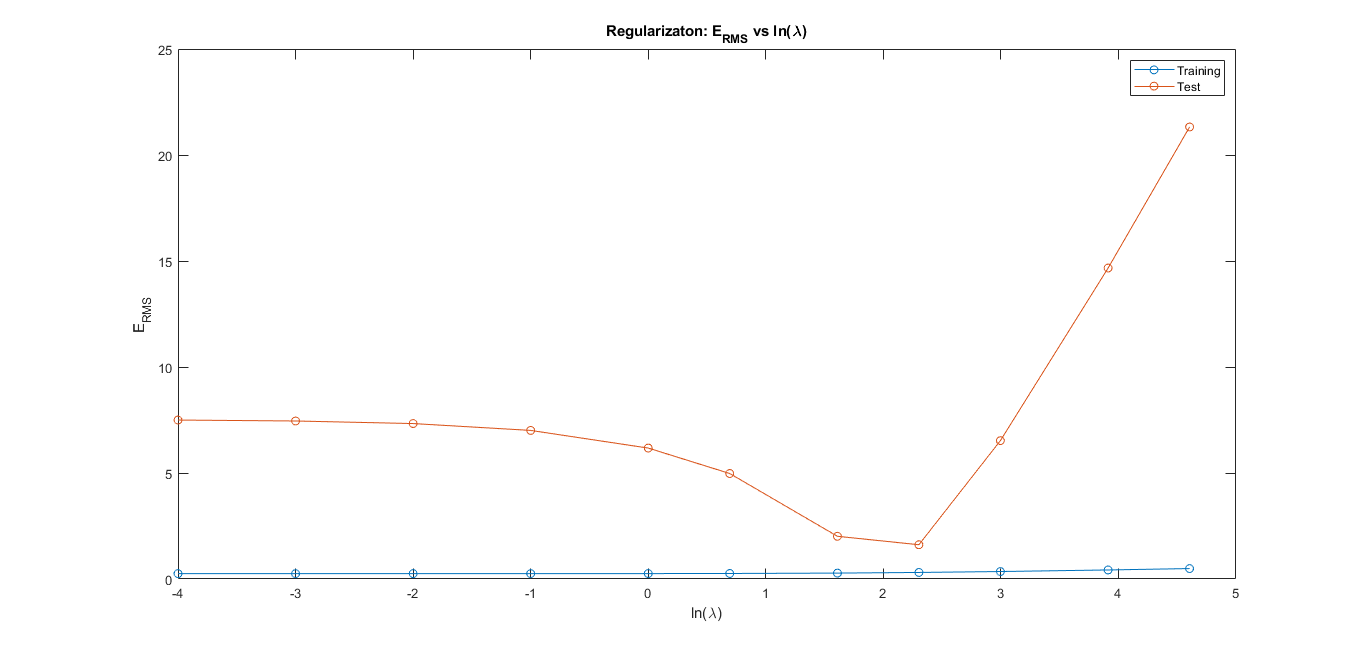
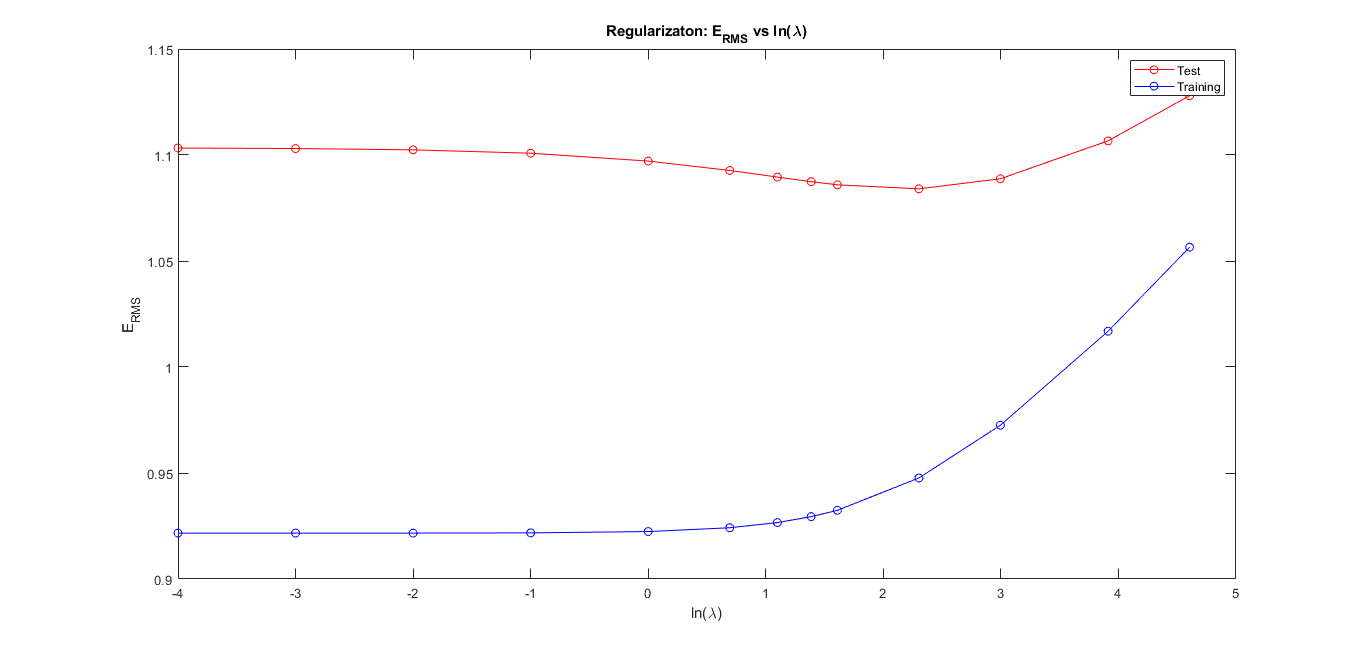
Update *.m files

diff --git a/hw1/one_hundred_fold.m b/hw1/one_hundred_fold.m
@@ -26,25 +26,25 @@ X = [ x.^0; x.^1; x.^2; x.^3; x.^4; x.^5; x.^6; x.^7; x.^8; x.^9 ]
 
 % Create lambda array values
 % exp(-4) equal to 1 * e(^4)
-lambda = [0, exp(-4), exp(-3), exp(-2), exp(-1), 1, 2, 5, 10, 20, 50, 100];
+lambda = [0, exp(-4), exp(-3), exp(-2), exp(-1), 1, 2, 3,4,5, 10, 20, 50, 100];
 
-% 10-fold Cross Validation
-for fold=1:10
+% 100-fold Leave-one-out algorithm
+for fold=1:100
     if fold == 1
-        X_train = X(:, [11:100]);
-        T_train = t([11:100],:);
-        X_valid = X(:, [1:10]);
-        T_valid = t([1:10],:);
-    elseif fold == 10
-        X_train = X(:, [1:fold*10-10]); 
-        T_train = t([1:fold*10-10], :);
-        X_valid = X(:, [91:100]);
-        T_valid = t([91:100], :);
+        X_train = X(:, [2:100]);
+        T_train = t([2:100],:);
+        X_valid = X(:, [1:1]);
+        T_valid = t([1:1],:);
+    elseif fold == 100
+        X_train = X(:, [1:99]); 
+        T_train = t([1:99], :);
+        X_valid = X(:, [99:100]);
+        T_valid = t([99:100], :);
     else
-        X_train = X(:, [1:(fold-1)*10 fold*10+1:100]);
-        T_train = t([1:(fold-1)*10 fold*10+1:100], :);
-        X_valid = X(:, [fold*10-9:fold*10]);
-        T_valid = t([fold*10-9:fold*10], :);
+        X_train = X(:, [1:(fold-1) fold+1:100]);
+        T_train = t([1:(fold-1) fold+1:100], :);
+        X_valid = X(:, [fold:fold]);
+        T_valid = t([fold:fold], :);
     end
     
     for i=1:length(lambda)
@@ -97,15 +97,15 @@ for p=1:length(lambda)
 end
 
 % Plot E_RMS and ln(lambda) for training and test set
-figure
-plot(test_lm, e_rms_train, '-o')
-hold on
-plot(test_lm, e_rms_test, '-o')
-title('Regularizaton: E_{RMS} vs ln(\lambda)')
-xlabel('ln(\lambda)')
-ylabel('E_{RMS}')
-legend('Training','Test')
-hold off
+%figure
+%plot(test_lm, e_rms_train, '-o')
+%hold on
+%plot(test_lm, e_rms_test, '-o')
+%title('Regularizaton: E_{RMS} vs ln(\lambda)')
+%xlabel('ln(\lambda)')
+%ylabel('E_{RMS}')
+%legend('Training','Test')
+%hold off
 
 % Getting best w_star value with min lambda
 coef = final_w_star;
@@ -117,7 +117,7 @@ hold on
 plot(x_test,t_test,'oy')
 plot(x,t,'ob')
 fplot(f, 'k')
-title('10-Fold Fitting Cruve w/ Train and Test Data Points')
+title('Leave One Out Method')
 xlabel('x')
 ylabel('t')
 legend('Test Data Points','Train Data Points', 'Fitting Cruve')

diff --git a/hw1/ten_fold.m b/hw1/ten_fold.m
@@ -26,7 +26,7 @@ X = [ x.^0; x.^1; x.^2; x.^3; x.^4; x.^5; x.^6; x.^7; x.^8; x.^9 ]
 
 % Create lambda array values
 % exp(-4) equal to 1 * e(^4)
-lambda = [0, exp(-4), exp(-3), exp(-2), exp(-1), 1, 2, 5, 10, 20, 50, 100];
+lambda = [0, exp(-4), exp(-3), exp(-2), exp(-1), 1, 2, 3,4 ,5, 10, 20, 50, 100];
 
 % 10-fold Cross Validation
 for fold=1:10
@@ -76,6 +76,7 @@ T_test = t_test;
 % Find min w_star value
 final_w_star = inv(X * transpose(X) + lambda(I) * eye(10)) * X * t;
 error_test = (0.5) *  sum((transpose(X_valid) * final_w_star - T_valid).^2);
+error_test_result = (0.5) *  sum((transpose(X_test) * final_w_star - t_test).^2);
 
 % Get Error Root Square Mean
 for k=1:length(lambda)
@@ -96,29 +97,41 @@ for p=1:length(lambda)
     test_lm(p) = log(lambda(p));
 end
 
-% Plot E_RMS and ln(lambda) for training and test set
+% Plot Regularization - E_RMS and ln(lambda)
 figure
-plot(test_lm, e_rms_train, '-o')
+plot(test_lm, e_rms_test, '-or')
 hold on
-plot(test_lm, e_rms_test, '-o')
+plot(test_lm, e_rms_train, '-ob')
 title('Regularizaton: E_{RMS} vs ln(\lambda)')
 xlabel('ln(\lambda)')
 ylabel('E_{RMS}')
-legend('Training','Test')
+legend('Test','Training')
 hold off
 
 % Getting best w_star value with min lambda
 coef = final_w_star;
 
-% Plot w* training with train data points
+% Polynomial function 
 f = @(x) coef(10)*x^9 + coef(9)*x^8 + coef(8)*x^7 + coef(7)*x^6 + coef(6)*x^5 + coef(5)*x^4 + coef(4)*x^3 + coef(3)*x^2 + coef(2)*x^1 +  coef(1);
 
+% Plot 10-Fold Fitting Curve
+figure
 hold on
 plot(x_test,t_test,'oy')
 plot(x,t,'ob')
 fplot(f, 'k')
-title('10-Fold Fitting Cruve w/ Train and Test Data Points')
+title('10-Fold Fitting Curve')
 xlabel('x')
 ylabel('t')
 legend('Test Data Points','Train Data Points', 'Fitting Cruve')
+hold off
+
+% Plot Error Mean Bar
+err=std(error)
+figure
+hold on
+errorbar(test_lm, error_mean ,err , '-ob')
+title('Mean Error vs ln(\lambda)')
+xlabel('ln(\lambda)')
+ylabel('Mean Error')
 hold off
